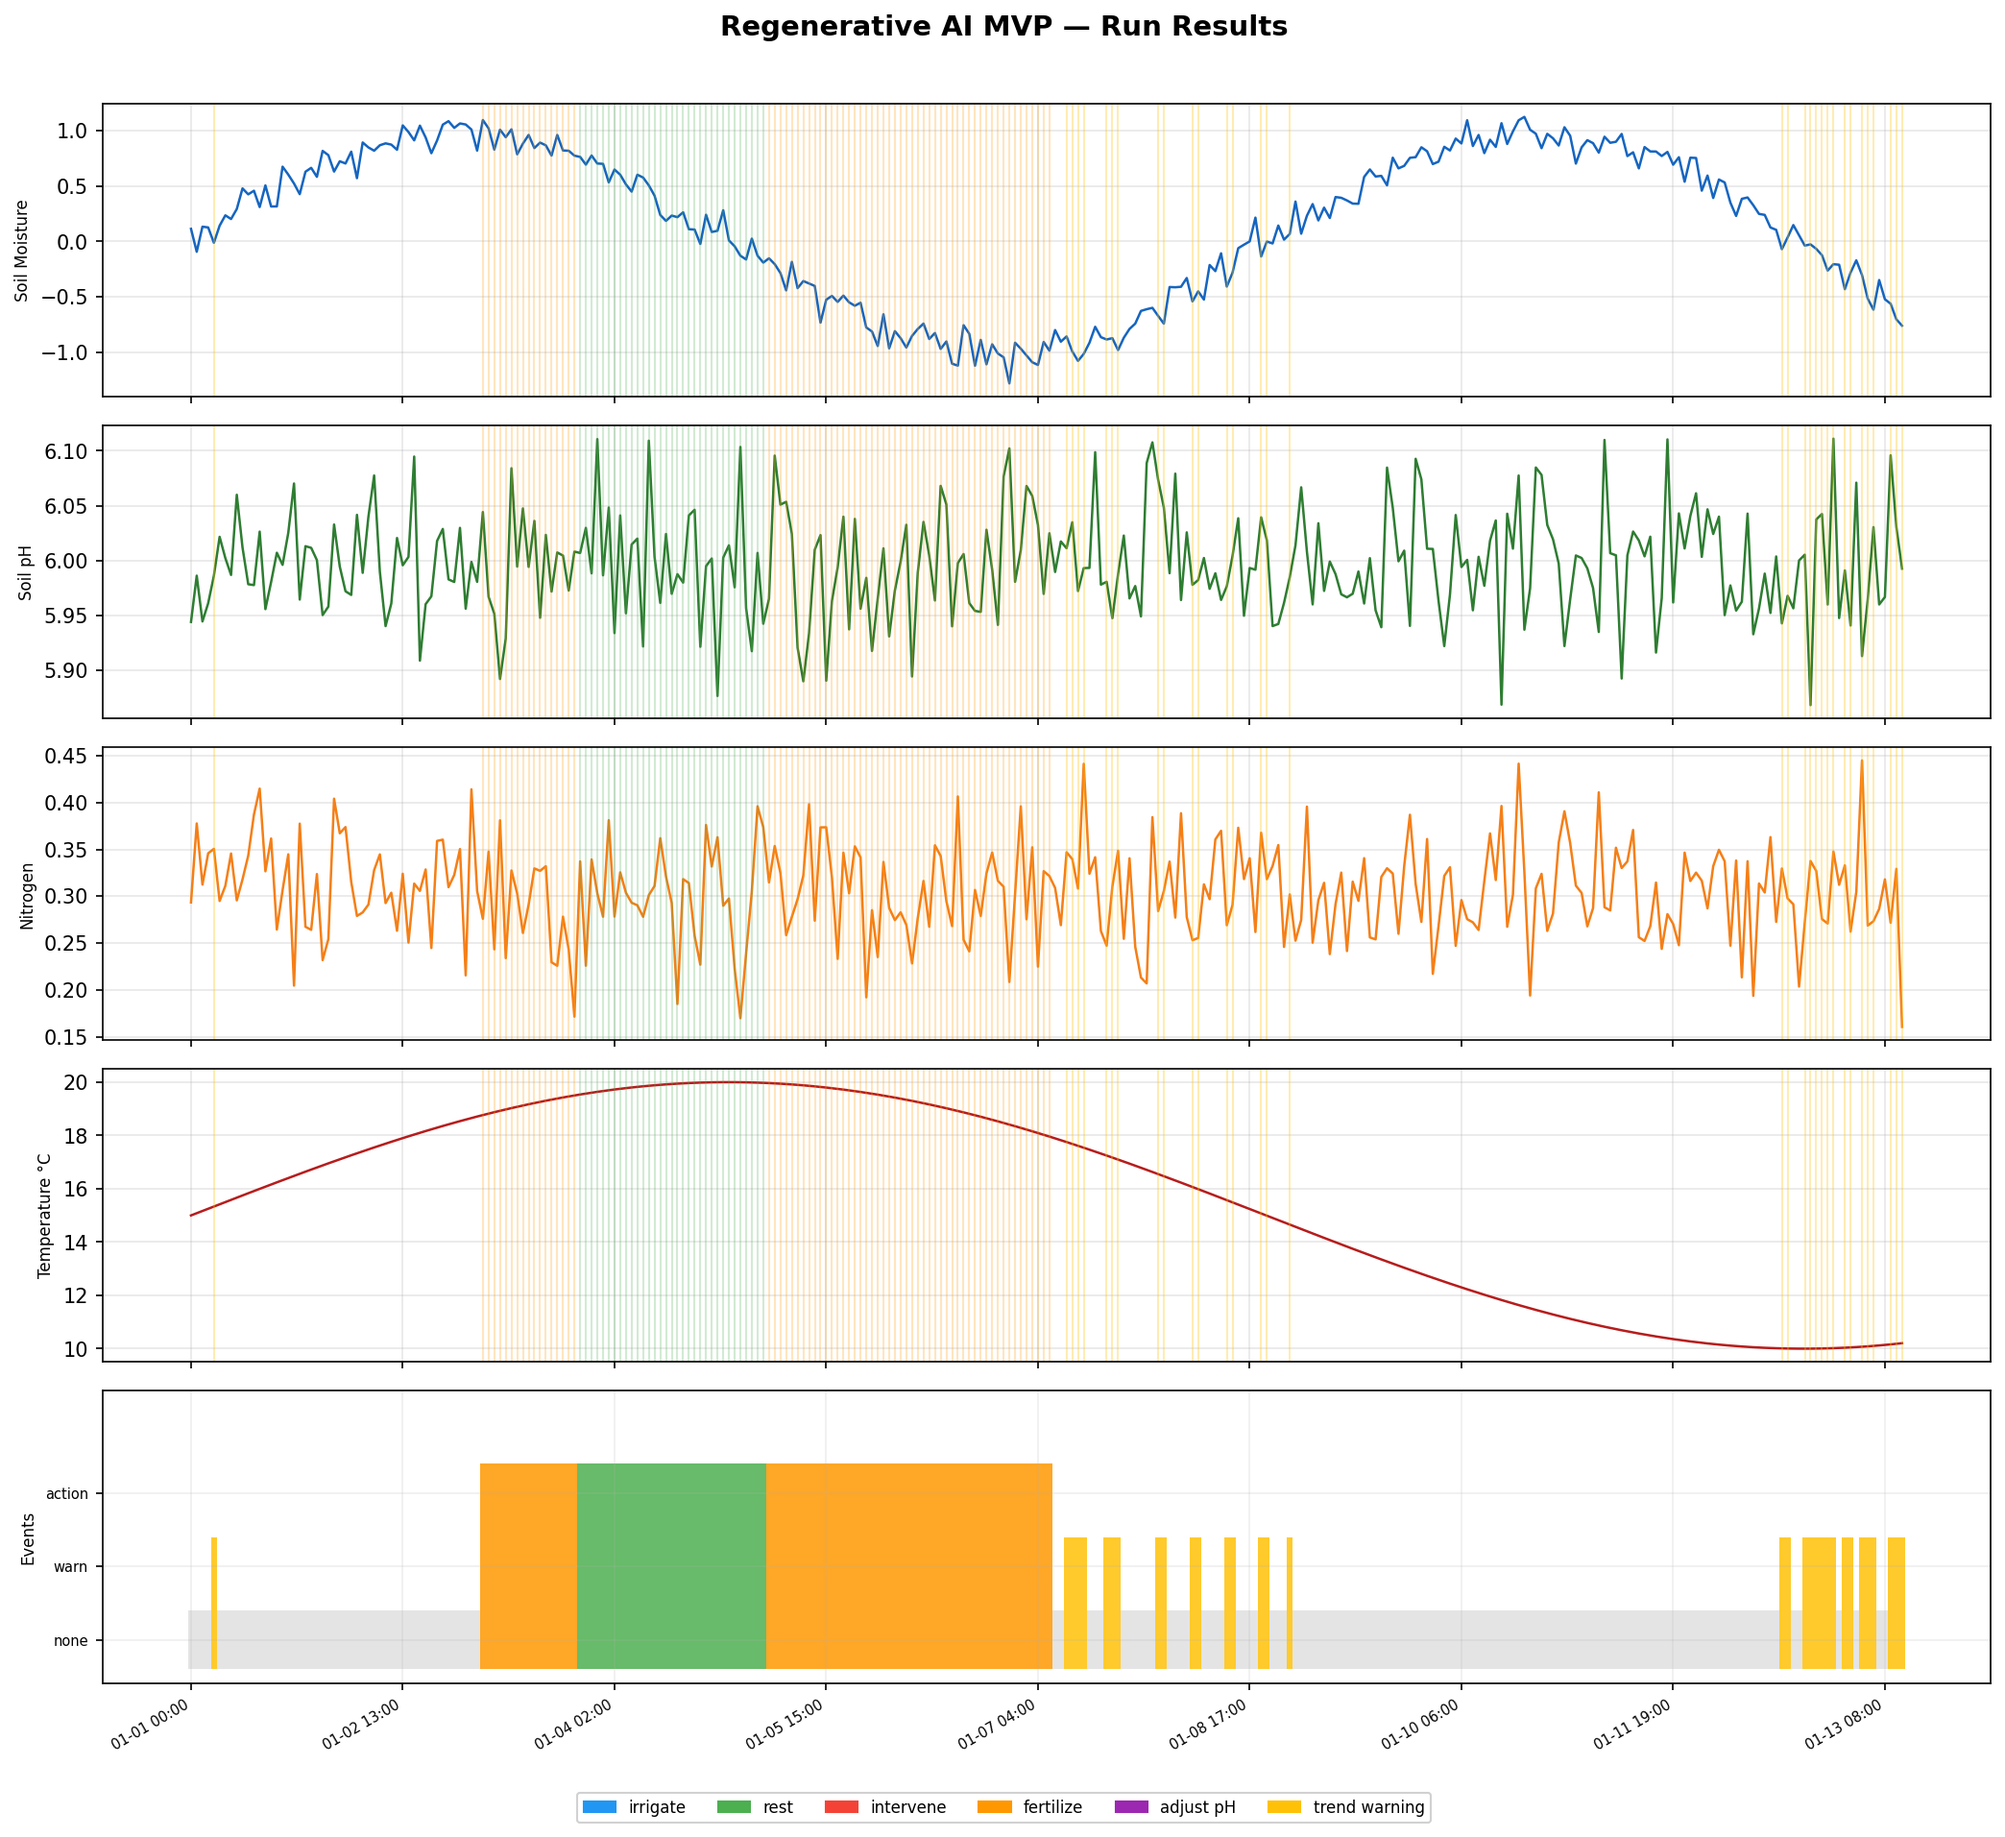
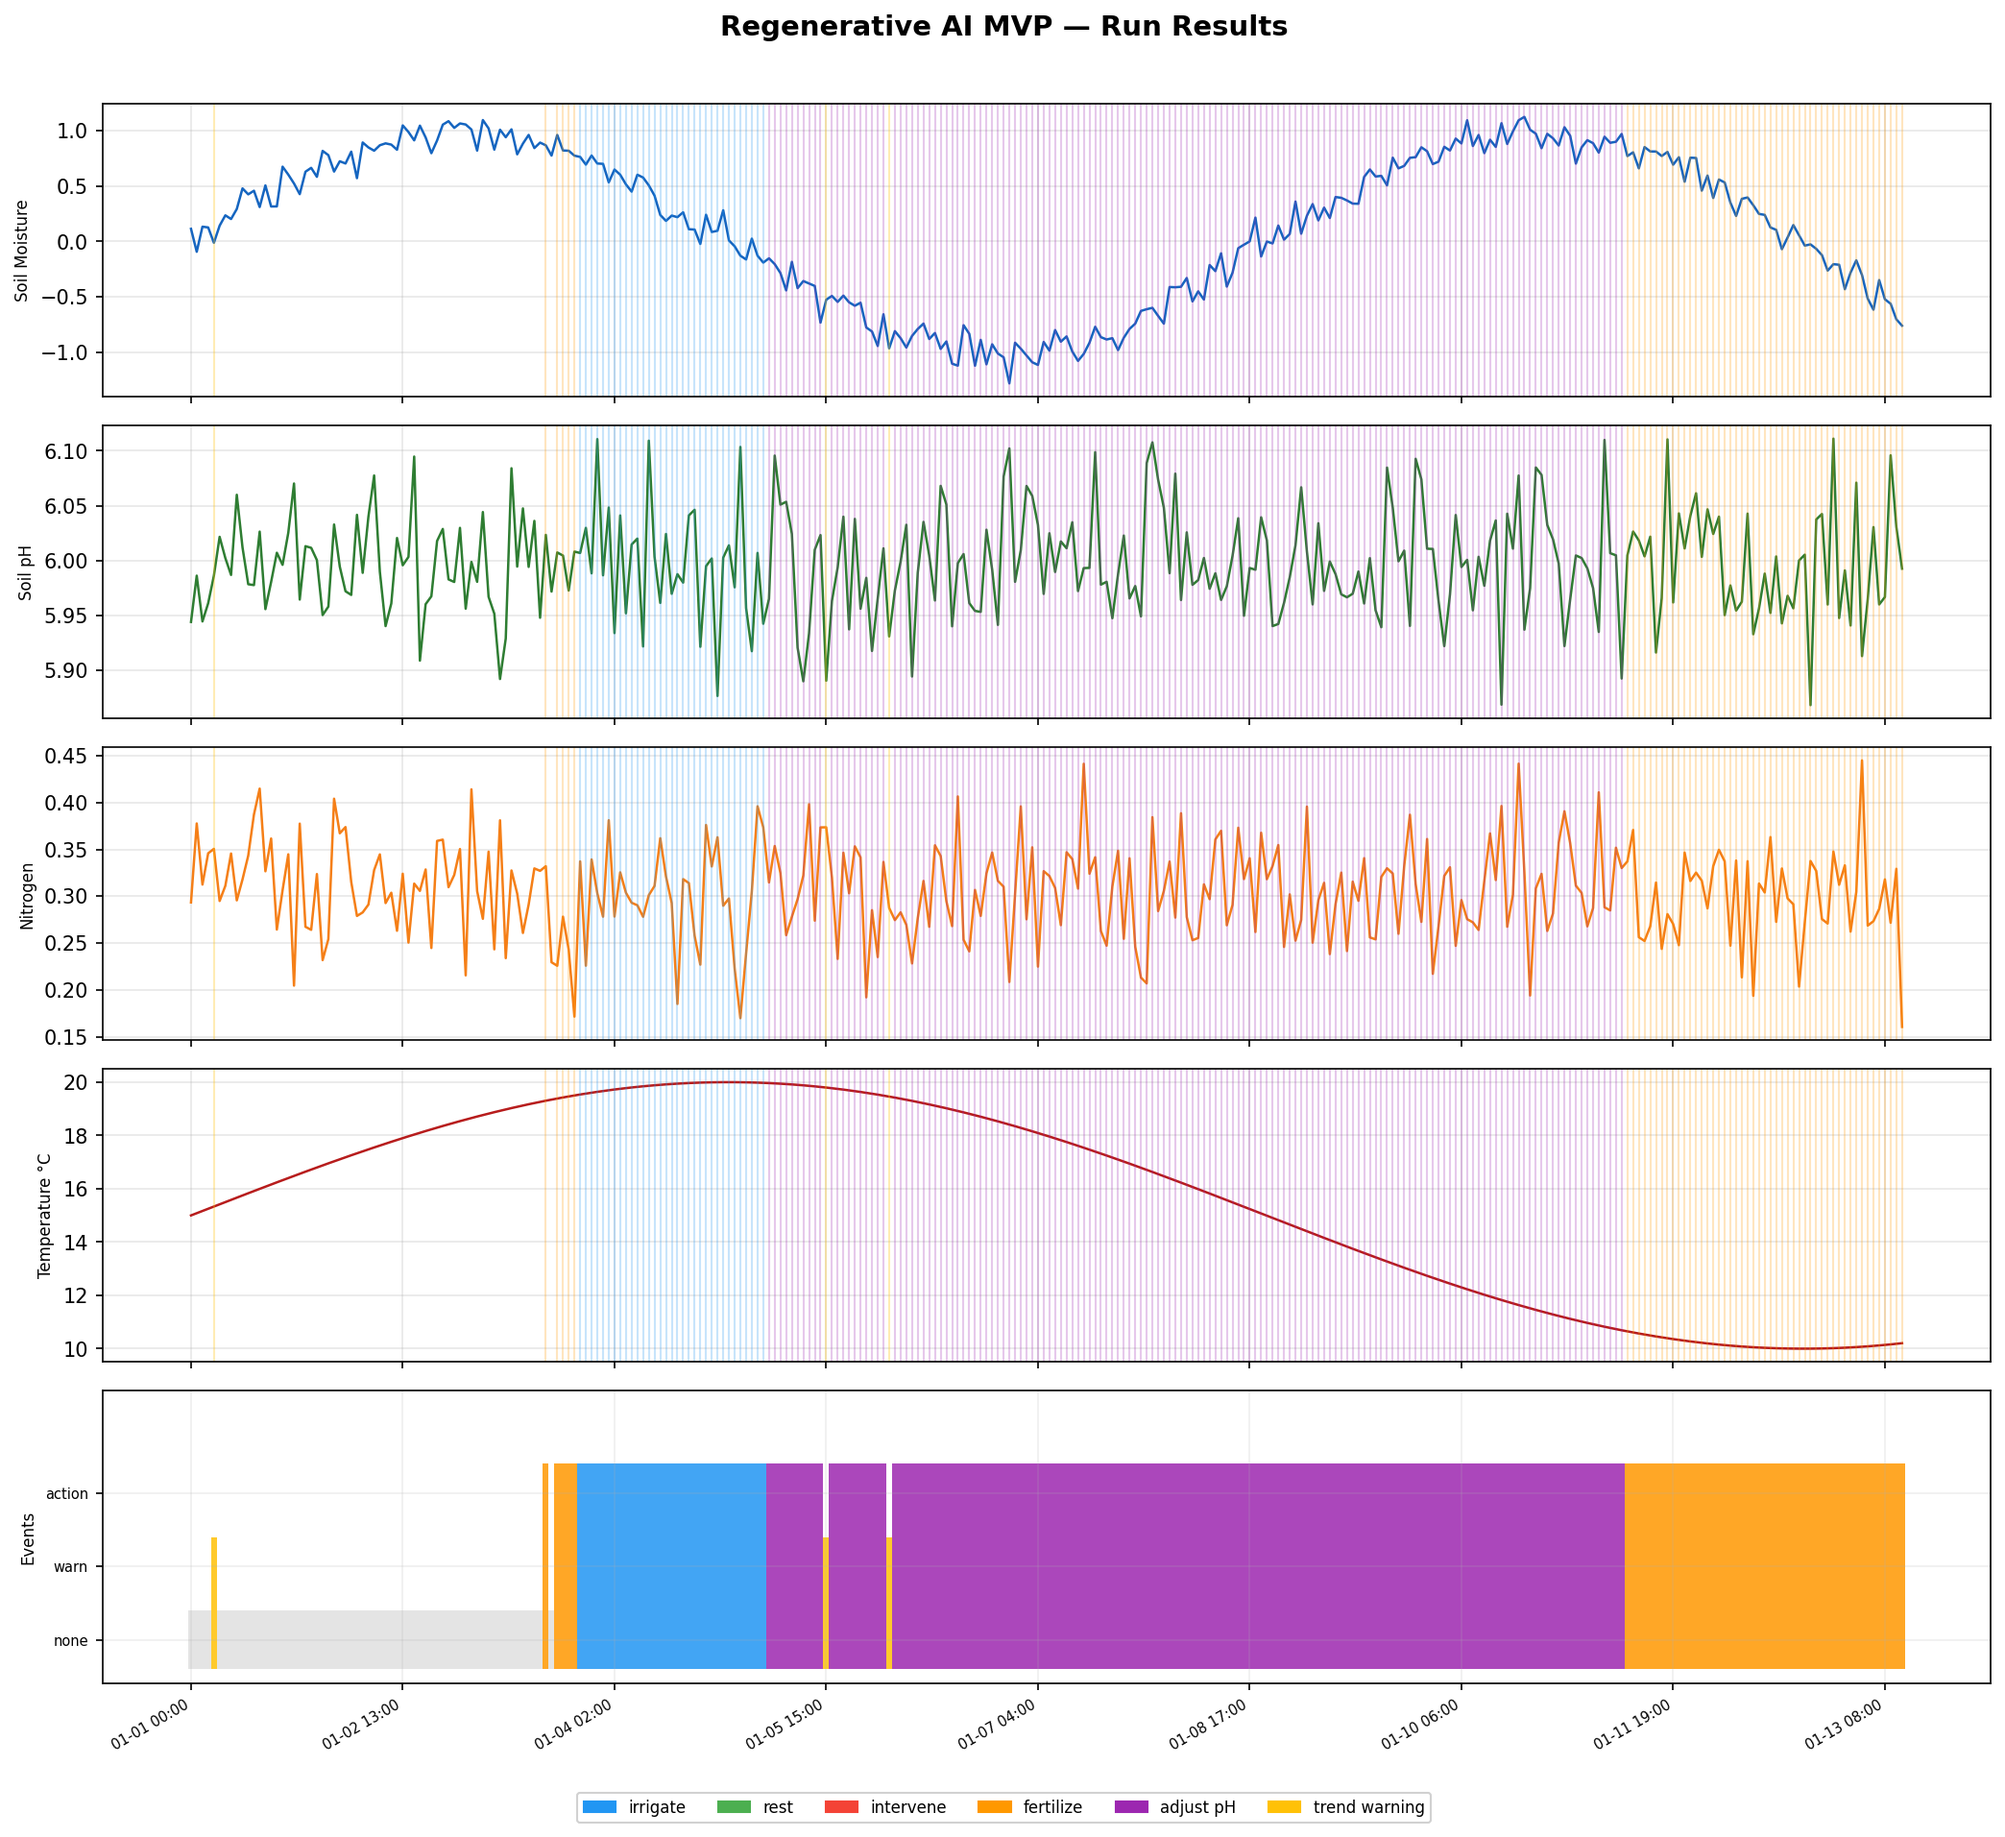
Fix world model to train on all 6 action dynamics
Previously the world model only saw action=0 (natural drift) transitions,
so it never learned the effect of any intervention. Added train_on_transitions()
to WorldModel and rewrote the training script to augment with 5x synthetic
labeled transitions per CSV row (one per action), growing training data from
299 to 1,794 pairs. The RL policy fallback and FeedbackLoop fine-tuning now
combine to produce irrigate, fertilize, and adjust pH events during inference.

Changed region(s): [[0.249, 0.0617, 0.9028, 0.7402], [0.2179, 0.771, 0.965, 0.9252]]

diff --git a/src/world_model/train_world_model.py b/src/world_model/train_world_model.py
@@ -1,13 +1,21 @@
 """Standalone script to train the WorldModel on real CSV sensor data.
 
+Builds a labeled multi-action training set by combining:
+  - Real natural transitions from CSV: (state_i, action=0, state_{i+1})
+  - Synthetic labeled transitions:     (state_i, action=a, apply_action(state_i, a))
+    for each of the 5 intervention actions (1-5)
+
+This ensures the world model learns the expected effect of every action,
+not just natural environmental drift.
+
 Usage (from project root):
     python3 src/world_model/train_world_model.py
 """
 
 import os
 import sys
+import numpy as np
 
-# Allow imports from src/ when run as a script
 sys.path.insert(0, os.path.join(os.path.dirname(__file__), ".."))
 
 from ingestion.load_soil_data import load_soil_data
@@ -16,28 +24,58 @@ from world_model.world_model import WorldModel
 SAVE_PATH = os.path.join(os.path.dirname(__file__), "..", "..", "models", "world_model.pt")
 
 
+def _apply_action(state: np.ndarray, action: int) -> np.ndarray:
+    """Deterministic action effect matching SoilRegenerationEnv.step() (no random drift)."""
+    m, ph, n, t = state
+    if action == 1:   m  += 0.1                         # irrigate
+    elif action == 2: n  += 0.02                         # rest
+    elif action == 3: m  -= 0.1                          # intervene
+    elif action == 4: n  += 0.08                         # fertilize
+    elif action == 5: ph += np.sign(6.5 - ph) * 0.05    # adjust pH
+    return np.array([m, ph, n, t], dtype=np.float32)
+
+
+def build_transitions(df) -> list:
+    """Build (state, action, next_state) triples for all 6 actions."""
+    transitions = []
+    cols = WorldModel.SENSOR_COLS
+    for i in range(len(df) - 1):
+        s  = df.iloc[i][cols].values.astype(np.float32)
+        ns = df.iloc[i + 1][cols].values.astype(np.float32)
+        transitions.append((s, 0, ns))                        # real natural dynamics
+        for a in range(1, 6):
+            transitions.append((s, a, _apply_action(s, a)))   # synthetic labeled
+    return transitions
+
+
 def main():
     os.makedirs(os.path.dirname(SAVE_PATH), exist_ok=True)
 
     print("Loading soil data...")
     df = load_soil_data()
-    print(f"  {len(df)} rows loaded — {len(df) - 1} transitions available for training")
+    natural = len(df) - 1
+    print(f"  {len(df)} rows loaded — {natural} natural transitions")
+
+    transitions = build_transitions(df)
+    print(f"  {len(transitions)} total transitions after action augmentation "
+          f"({natural} real + {len(transitions) - natural} synthetic)")
 
     model = WorldModel()
-    print("\nTraining world model (200 epochs)...")
-    model.train_on_data(df, epochs=200)
+    print("\nTraining world model on all 6 actions (200 epochs)...")
+    model.train_on_transitions(transitions, epochs=200)
 
     model.save(SAVE_PATH)
     print(f"\nModel saved to {SAVE_PATH}")
 
-    # Quick sanity check
-    import numpy as np
-    sample = df.iloc[0][WorldModel.SENSOR_COLS].values.astype("float32")
-    pred_no_action = model.predict(sample, action=0)
-    pred_irrigate  = model.predict(sample, action=1)
-    print(f"\nSanity check on first row: {dict(zip(WorldModel.SENSOR_COLS, sample.round(3)))}")
-    print(f"  Predicted next (action=0): {pred_no_action.round(4)}")
-    print(f"  Predicted next (action=1): {pred_irrigate.round(4)}")
+    # Sanity check: irrigate on a dry state should raise moisture and score higher
+    print("\nSanity check — dry state (moisture=-0.5):")
+    from action.soil_env import life_reward
+    dry = np.array([-0.5, 6.0, 0.3, 18.0], dtype=np.float32)
+    labels = {0:"no action", 1:"irrigate", 2:"rest", 3:"intervene", 4:"fertilize", 5:"adjust pH"}
+    for a in range(6):
+        pred  = model.predict(dry, a)
+        score = life_reward(pred)
+        print(f"  a{a} {labels[a]:12s}: moisture={pred[0]:+.3f}  score={score:.4f}")
 
 
 if __name__ == "__main__":

diff --git a/src/world_model/world_model.py b/src/world_model/world_model.py
@@ -76,6 +76,38 @@ class WorldModel:
         self.net.eval()
         self.trained = True
 
+    def train_on_transitions(self, transitions: list, epochs: int = 200, lr: float = 1e-3) -> None:
+        """Train from scratch on a pre-built list of (state, action, next_state) tuples.
+
+        Supports any mix of actions — use this instead of train_on_data() when
+        labeled multi-action transitions are available.
+        """
+        inputs  = torch.stack([self._encode(s, a) for s, a, _ in transitions])
+        targets = torch.tensor(np.array([ns for _, _, ns in transitions], dtype=np.float32))
+
+        split = int(len(inputs) * 0.8)
+        X_train, X_val = inputs[:split], inputs[split:]
+        y_train, y_val = targets[:split], targets[split:]
+
+        optimizer = torch.optim.Adam(self.net.parameters(), lr=lr)
+        loss_fn = nn.MSELoss()
+
+        self.net.train()
+        for epoch in range(1, epochs + 1):
+            optimizer.zero_grad()
+            loss = loss_fn(self.net(X_train), y_train)
+            loss.backward()
+            optimizer.step()
+            if epoch % 50 == 0:
+                self.net.eval()
+                with torch.no_grad():
+                    val_loss = loss_fn(self.net(X_val), y_val).item()
+                self.net.train()
+                print(f"  Epoch {epoch:3d} | train_mse={loss.item():.5f} | val_mse={val_loss:.5f}")
+
+        self.net.eval()
+        self.trained = True
+
     def fine_tune(self, transitions: list, epochs: int = 20, lr: float = 1e-3) -> None:
         """Fine-tune on real (state, action, next_state) observations."""
         if not transitions:
